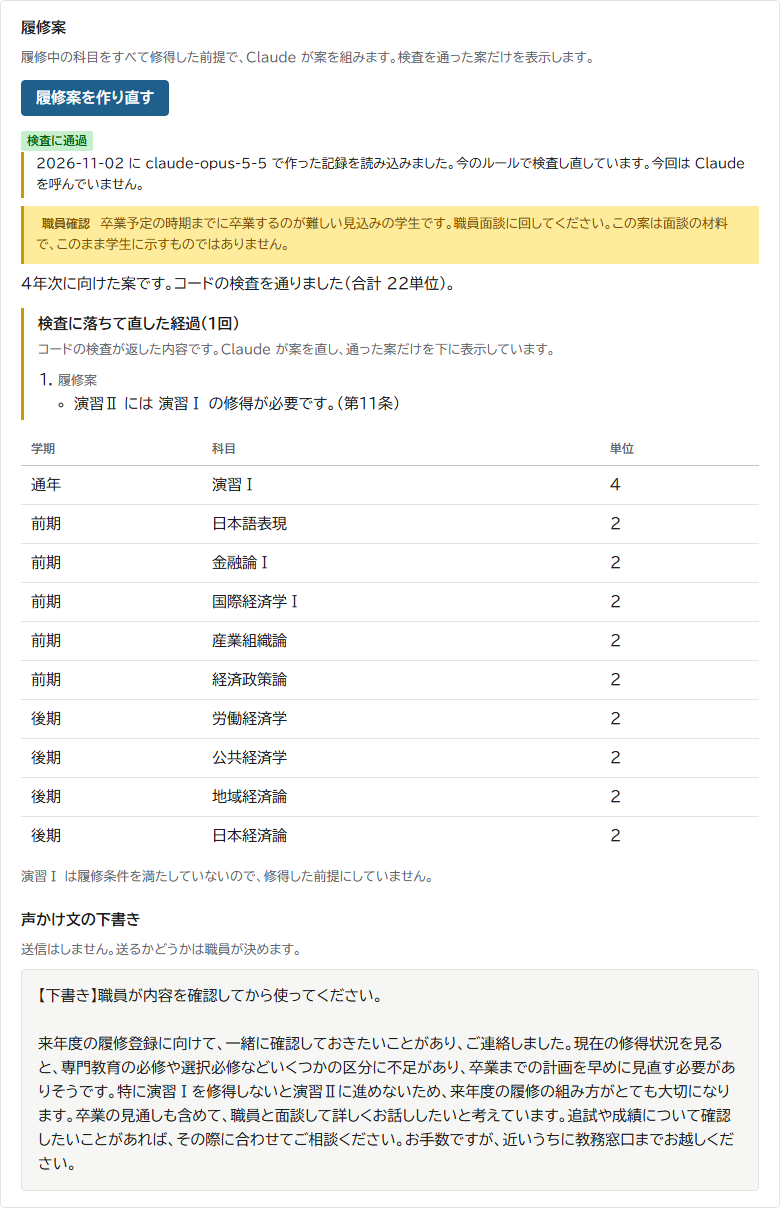
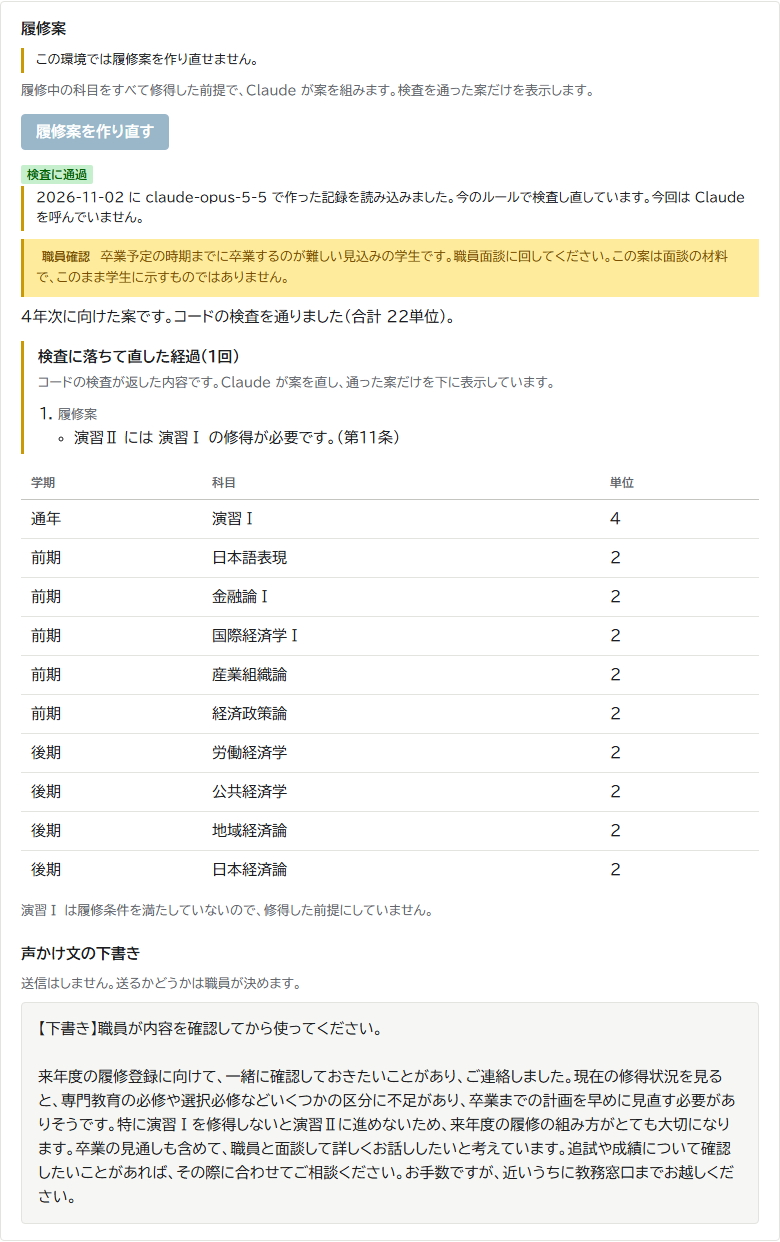
UI の再チェックで記録だけにしていた画面の問題を直し、README の画像を撮り直す（U-7〜U-12）

Changed region(s): [[0.0, 0.0, 0.9846, 0.9793], [0.7692, 0.3672, 0.8308, 0.7039]]

diff --git a/src/ExtractionPanel.tsx b/src/ExtractionPanel.tsx
@@ -1,3 +1,4 @@
+import { quoteText } from "./quoteText";
 import { retakeNotice } from "./retakeNotice";
 import { useEffect, useRef, useState } from "react";
 import type { Ambiguity } from "../engine/rules";
@@ -34,7 +35,7 @@ function Questions({ ambiguities, proposal }: { ambiguities: Ambiguity[]; propos
           <article className="card" key={ambiguity.id}>
             <p className="clause">{ambiguity.clause}</p>
             <h3>{ambiguity.question}</h3>
-            <blockquote>{ambiguity.sourceQuote}</blockquote>
+            <blockquote>{quoteText(ambiguity.sourceQuote)}</blockquote>
             {impact ? (
               <>
                 <ImpactCounts impact={impact} />
@@ -74,7 +75,7 @@ function RuleTable({ rows }: { rows: RuleRow[] }) {
             <tr key={row.id}>
               <td className="nowrap">{row.clause}</td>
               <td>{row.summary}</td>
-              <td className="muted">{row.sourceQuote}</td>
+              <td className="muted">{quoteText(row.sourceQuote)}</td>
               <td>
                 <ReviewBadge review={row.review} />
               </td>
@@ -221,7 +222,7 @@ function ExtraQuestions({ questions }: { questions: ProposalResponse["extraQuest
         <article className="card" key={sourceQuote}>
           <p className="clause">{clause}</p>
           <h3>{question}</h3>
-          <blockquote>{sourceQuote}</blockquote>
+          <blockquote>{quoteText(sourceQuote)}</blockquote>
           <ul>
             {options.map((option) => (
               <li key={option}>{option}</li>
@@ -421,7 +422,7 @@ function Proposal({ proposal, respondent, confirmedDatasetId, onConfirmed }: Pro
   const { rules, notes, problems, attempts, extraQuestions, caseResults, recording } = proposal;
   const rows = summarizeRules(rules);
   return (
-    <section>
+    <section className="proposal">
       <h2>ルール案</h2>
       <p className="notice">
         職員が確定するまで、この案は判定に使いません。根拠の文が要項にあることは検査しましたが、解釈が正しいことは保証しません。
@@ -475,7 +476,7 @@ function Proposal({ proposal, respondent, confirmedDatasetId, onConfirmed }: Pro
           {notes.map((note) => (
             <article className="card" key={`${note.clause}-${note.sourceQuote}`}>
               <p className="clause">{note.clause}</p>
-              <blockquote>{note.sourceQuote}</blockquote>
+              <blockquote>{quoteText(note.sourceQuote)}</blockquote>
               <p>{note.reason}</p>
             </article>
           ))}

diff --git a/src/OutreachPanel.tsx b/src/OutreachPanel.tsx
@@ -2,6 +2,7 @@ import { useState, type ReactNode } from "react";
 import { describeAmounts } from "../engine/outreach";
 import type { StateChange } from "../engine/stateChanges";
 import type { Outreach, OverviewResponse } from "../shared/api";
+import { quoteText } from "./quoteText";
 import { FinalYearSummary } from "./FinalYearSummary";
 import { JudgmentBadge, NewlyListedBadge } from "./StatusBadge";
 
@@ -9,12 +10,13 @@ type Props = {
   outreach: Outreach[];
   finalYear: OverviewResponse["finalYear"];
   changes: StateChange[];
+  changedLabel: string;
   onOpenStudent: (studentId: string) => void;
 };
 
 type CardProps = {
   entry: Outreach;
-  newlyListed: boolean;
+  newlyListed: string | null;
   onOpenStudent: Props["onOpenStudent"];
 };
 
@@ -25,7 +27,7 @@ function Grounds({ reasons }: { reasons: Outreach["reasons"] }) {
   return (
     <>
       {unique.map(({ ruleId, clause, sourceQuote }) => (
-        <blockquote key={ruleId}>{sourceQuote.startsWith(clause) ? sourceQuote : `${clause}: ${sourceQuote}`}</blockquote>
+        <blockquote key={ruleId}>{sourceQuote.startsWith(clause) ? quoteText(sourceQuote) : `${clause}: ${quoteText(sourceQuote)}`}</blockquote>
       ))}
     </>
   );
@@ -74,7 +76,7 @@ function OutreachRow({ entry, newlyListed, onOpenStudent }: CardProps) {
           <button type="button" className="link id" onClick={() => onOpenStudent(entry.studentId)}>
             {entry.studentId}
           </button>
-          {newlyListed && <NewlyListedBadge />}
+          {newlyListed && <NewlyListedBadge label={newlyListed} />}
         </td>
         <td className="num">{entry.studentYear}</td>
         <td className="nowrap">
@@ -154,7 +156,7 @@ function OutreachTable({ entries, row }: { entries: Outreach[]; row: (entry: Out
   );
 }
 
-export function OutreachPanel({ outreach, finalYear, changes, onOpenStudent }: Props) {
+export function OutreachPanel({ outreach, finalYear, changes, changedLabel, onOpenStudent }: Props) {
   // 絞り込みは画面の中だけで行う。人数の計算は engine の結果のまま
   const [year, setYear] = useState("all");
   const [ruleName, setRuleName] = useState("all");
@@ -173,7 +175,7 @@ export function OutreachPanel({ outreach, finalYear, changes, onOpenStudent }: P
     <OutreachRow
       key={entry.studentId}
       entry={entry}
-      newlyListed={changed.has(entry.studentId)}
+      newlyListed={changed.has(entry.studentId) ? changedLabel : null}
       onOpenStudent={onOpenStudent}
     />
   );

diff --git a/src/App.tsx b/src/App.tsx
@@ -9,7 +9,7 @@ import {
   type PreviousAnswer,
   type Respondent,
 } from "../shared/api";
-import { changesAfterAnswer } from "./answerChanges";
+import { type AnswerAction, changedBadgeLabel, changesAfterAnswer } from "./answerChanges";
 import { fetchAnswerRecords, fetchDatasets, fetchOverview, saveAnswer, withdrawProposal } from "./api";
 import { ChangesPanel } from "./ChangesPanel";
 import { ExtractionPanel } from "./ExtractionPanel";
@@ -65,6 +65,7 @@ export function App() {
   const [respondent, setRespondent] = useState<Respondent>("教務職員A");
   const [overview, setOverview] = useState<OverviewResponse | null>(null);
   const [previous, setPrevious] = useState<OverviewResponse | null>(null);
+  const [lastAction, setLastAction] = useState<AnswerAction>("answer");
   const [tab, setTab] = useState<Tab>("questions");
   const [selectedId, setSelectedId] = useState<string | null>(null);
   // 学生別の絞り込み。上の人数から開くときに指定し、学生別を離れたら「すべて」に戻す
@@ -171,6 +172,7 @@ export function App() {
       if (latestDataset.current !== requested) return;
       resultPending.current = true;
       setPrevious(overview);
+      setLastAction(optionId === null ? "clear" : "answer");
       setRecords(result.records);
       setHistory(result.history);
       setPreviousAnswers(result.previous);
@@ -375,6 +377,7 @@ export function App() {
             {changes && tab !== "import" && (
               <ChangesPanel
                 changes={changes}
+                action={lastAction}
                 onOpenStudent={openStudent}
                 onOpenOutreach={() => setTab("outreach")}
               />
@@ -421,6 +424,7 @@ export function App() {
                 outreach={overview.outreach}
                 finalYear={overview.finalYear}
                 changes={changes ?? []}
+                changedLabel={changedBadgeLabel(lastAction)}
                 onOpenStudent={openStudent}
               />
             )}

diff --git a/src/StudentsPanel.tsx b/src/StudentsPanel.tsx
@@ -1,4 +1,5 @@
 import { Fragment, useEffect, useRef, useState } from "react";
+import { quoteText } from "./quoteText";
 import { amountCaveat } from "./judgmentAmounts";
 import type {
   Answers,
@@ -318,7 +319,8 @@ export function StudentsPanel({ datasetId, answers, students, selectedId, onSele
             </label>
             <p className="muted">{shown.length}人を表示（声かけ、職員確認、対応なしの順）</p>
           </div>
-          <ul className="student-list" aria-label="学生の一覧">
+          {shown.length === 0 && <p className="empty-line">絞り込みに当てはまる学生はいません。</p>}
+          {shown.length > 0 && <ul className="student-list" aria-label="学生の一覧">
             {shown.map((student) => (
               <li key={student.id}>
                 <button
@@ -333,7 +335,7 @@ export function StudentsPanel({ datasetId, answers, students, selectedId, onSele
                 </button>
               </li>
             ))}
-          </ul>
+          </ul>}
         </div>
 
         <div className="student-detail">
@@ -389,7 +391,7 @@ export function StudentsPanel({ datasetId, answers, students, selectedId, onSele
                             <span className="muted"> 未修得: {judgment.missingCourses.join("、")}</span>
                           )}
                           {amountCaveat(judgment) && <span className="muted"> {amountCaveat(judgment)}</span>}
-                          <span className="quote">{judgment.sourceQuote}</span>
+                          <span className="quote">{quoteText(judgment.sourceQuote)}</span>
                         </td>
                       </tr>
                     </Fragment>

diff --git a/src/__tests__/quoteText.test.ts b/src/__tests__/quoteText.test.ts
@@ -1,0 +1,32 @@
+import { describe, expect, it } from "vitest";
+import { goldRules as kamomeRules } from "../../data/fictional/kamome/gold-rules";
+import { goldRules as sakuradaiRules } from "../../data/fictional/sakuradai/gold-rules";
+import { quoteText } from "../quoteText";
+
+const recorded = import.meta.glob("../../data/fictional/*/recorded-proposal.json", { eager: true, import: "default" });
+
+function quotesIn(value: unknown): string[] {
+  if (Array.isArray(value)) return value.flatMap(quotesIn);
+  if (typeof value !== "object" || value === null) return [];
+  return Object.entries(value).flatMap(([key, item]) => (key === "sourceQuote" && typeof item === "string" ? [item] : quotesIn(item)));
+}
+
+describe("根拠の文の見せ方", () => {
+  it("要項の表の1行は、記号を除いて区切って見せる", () => {
+    expect(quoteText("| 基礎教育 | 必修 | 8 |")).toBe("基礎教育 ／ 必修 ／ 8");
+  });
+
+  it("表でない文はそのまま見せる", () => {
+    expect(quoteText("修得単位が合計60単位以上であること")).toBe("修得単位が合計60単位以上であること");
+  });
+
+  it("文の途中の記号は表とみなさない", () => {
+    expect(quoteText("A | B")).toBe("A | B");
+  });
+
+  it("架空の2校のルールと変換の記録のどの根拠の文にも、表の記号を残さない", () => {
+    const quotes = quotesIn([sakuradaiRules, kamomeRules, recorded]);
+    expect(quotes.filter((quote) => quote.includes("|")).length).toBeGreaterThan(0);
+    expect(quotes.map(quoteText).filter((text) => text.includes("|"))).toEqual([]);
+  });
+});

diff --git a/src/answerChanges.ts b/src/answerChanges.ts
@@ -2,6 +2,20 @@ import { diffStudentStates, type StateChange, type StudentState } from "../engin
 
 type Snapshot = { students: { id: string; state: StudentState }[] };
 
+// 判定を更新した操作。読み方を選んだか、回答を取り消したか
+export type AnswerAction = "answer" | "clear";
+
+export function changesMessage(count: number, action: AnswerAction) {
+  if (action === "clear") {
+    return count === 0 ? "この取り消しで職員の対応が変わる学生はいません。" : `回答の取り消しで、職員の対応が変わった学生は ${count}人です。`;
+  }
+  return count === 0 ? "この回答で職員の対応が変わる学生はいません。" : `直前の回答で、職員の対応が変わった学生は ${count}人です。`;
+}
+
+export function changedBadgeLabel(action: AnswerAction) {
+  return action === "clear" ? "直前の取り消しで変化" : "直前の回答で変化";
+}
+
 // 回答の前後で、職員の対応が変わった学生。
 // 回答を記録してから新しい判定が届くまでは、手元の一覧がまだ回答の前のものなので比べない（null）。
 // 比べると、判定が届くまでの間「変わる学生はいません」と出てしまう（第3回の監査 A3-4）

diff --git a/src/ChangesPanel.tsx b/src/ChangesPanel.tsx
@@ -1,8 +1,10 @@
 import type { StateChange } from "../engine/stateChanges";
+import { type AnswerAction, changesMessage } from "./answerChanges";
 import { StateBadge } from "./StatusBadge";
 
 type Props = {
   changes: StateChange[];
+  action: AnswerAction;
   onOpenStudent: (studentId: string) => void;
   onOpenOutreach: () => void;
 };
@@ -16,12 +18,11 @@ function groupByRoute(changes: StateChange[]) {
   return [...groups.values()];
 }
 
-export function ChangesPanel({ changes, onOpenStudent, onOpenOutreach }: Props) {
+export function ChangesPanel({ changes, action, onOpenStudent, onOpenOutreach }: Props) {
   return (
     <section className="changes card" aria-live="polite">
       <h2 id="answer-result" tabIndex={-1}>全学生の判定を更新しました</h2>
-      {changes.length === 0 && <p className="muted">この回答で職員の対応が変わる学生はいません。</p>}
-      {changes.length > 0 && <p>直前の回答で、職員の対応が変わった学生は {changes.length}人です。</p>}
+      <p className={changes.length === 0 ? "muted" : undefined}>{changesMessage(changes.length, action)}</p>
       {groupByRoute(changes).map((group) => {
         const { from, to } = group[0]!;
         return (

diff --git a/src/app.css b/src/app.css
@@ -89,6 +89,14 @@ h3 {
   line-height: 1.5;
 }
 
+.proposal > h3 {
+  margin-top: 24px;
+}
+
+.proposal > .table-scroll + .muted {
+  margin-top: 16px;
+}
+
 h4 {
   margin: 16px 0 8px;
   font-size: 15px;
@@ -1376,7 +1384,7 @@ button.option:hover:not(:disabled) {
     flex: none;
   }
 
-  /* 人数は狭い画面でも1段に収め、説明は隠す */
+  /* 人数は狭い画面でも1段に収め、説明は隠す。直前の人数との差は回答の結果なので残す */
   .summary {
     grid-template-columns: repeat(4, minmax(0, 1fr));
   }
@@ -1389,9 +1397,15 @@ button.option:hover:not(:disabled) {
     font-size: 18px;
   }
 
-  .summary-note,
-  .summary-delta {
+  .summary-note {
     display: none;
+  }
+
+  .summary-delta {
+    display: block;
+    margin-left: 0;
+    font-size: 11px;
+    line-height: 1.35;
   }
 
   .card {

diff --git a/src/QuestionsPanel.tsx b/src/QuestionsPanel.tsx
@@ -7,6 +7,7 @@ import type {
   OverviewResponse,
   PreviousAnswer,
 } from "../shared/api";
+import { quoteText } from "./quoteText";
 import { buildMeetingSheet, countedCaption, countedStatuses } from "./meetingSheet";
 import { MeetingSheetView } from "./MeetingSheetView";
 import { JudgmentBadge, judgmentLabel } from "./StatusBadge";
@@ -202,7 +203,7 @@ function QuestionHead({ impact, answered, unreflected }: { impact: Impact; answe
         {answered && unreflected && <span className="badge badge-warn">回答済み（判定に未反映）</span>}
       </p>
       <h3>{impact.question}</h3>
-      <blockquote>{impact.sourceQuote}</blockquote>
+      <blockquote>{quoteText(impact.sourceQuote)}</blockquote>
     </>
   );
 }

diff --git a/src/MeetingSheetView.tsx b/src/MeetingSheetView.tsx
@@ -1,3 +1,4 @@
+import { quoteText } from "./quoteText";
 import { countedCaption, type MeetingSheet } from "./meetingSheet";
 import { JudgmentBadge } from "./StatusBadge";
 
@@ -35,7 +36,7 @@ export function MeetingSheetView({ sheet, datasetName, onClose }: Props) {
           <h3>
             {index + 1}. {item.clause}　{item.question}
           </h3>
-          <blockquote>{item.sourceQuote}</blockquote>
+          <blockquote>{quoteText(item.sourceQuote)}</blockquote>
           {item.computable ? (
             <p>
               回答で判定が変わる学生 <strong>{item.affected}人</strong>

diff --git a/src/quoteText.ts b/src/quoteText.ts
@@ -1,0 +1,11 @@
+// 要項の表の1行を引いた根拠の文を、表の記号を除いて見せる。
+// 保存する文と、要項にあるかの検査は原文のままなので、ここで変えるのは見せ方だけ。
+export function quoteText(quote: string) {
+  const line = quote.trim();
+  if (!line.startsWith("|") || !line.endsWith("|")) return quote;
+  return line
+    .slice(1, -1)
+    .split("|")
+    .map((cell) => cell.trim())
+    .join(" ／ ");
+}
